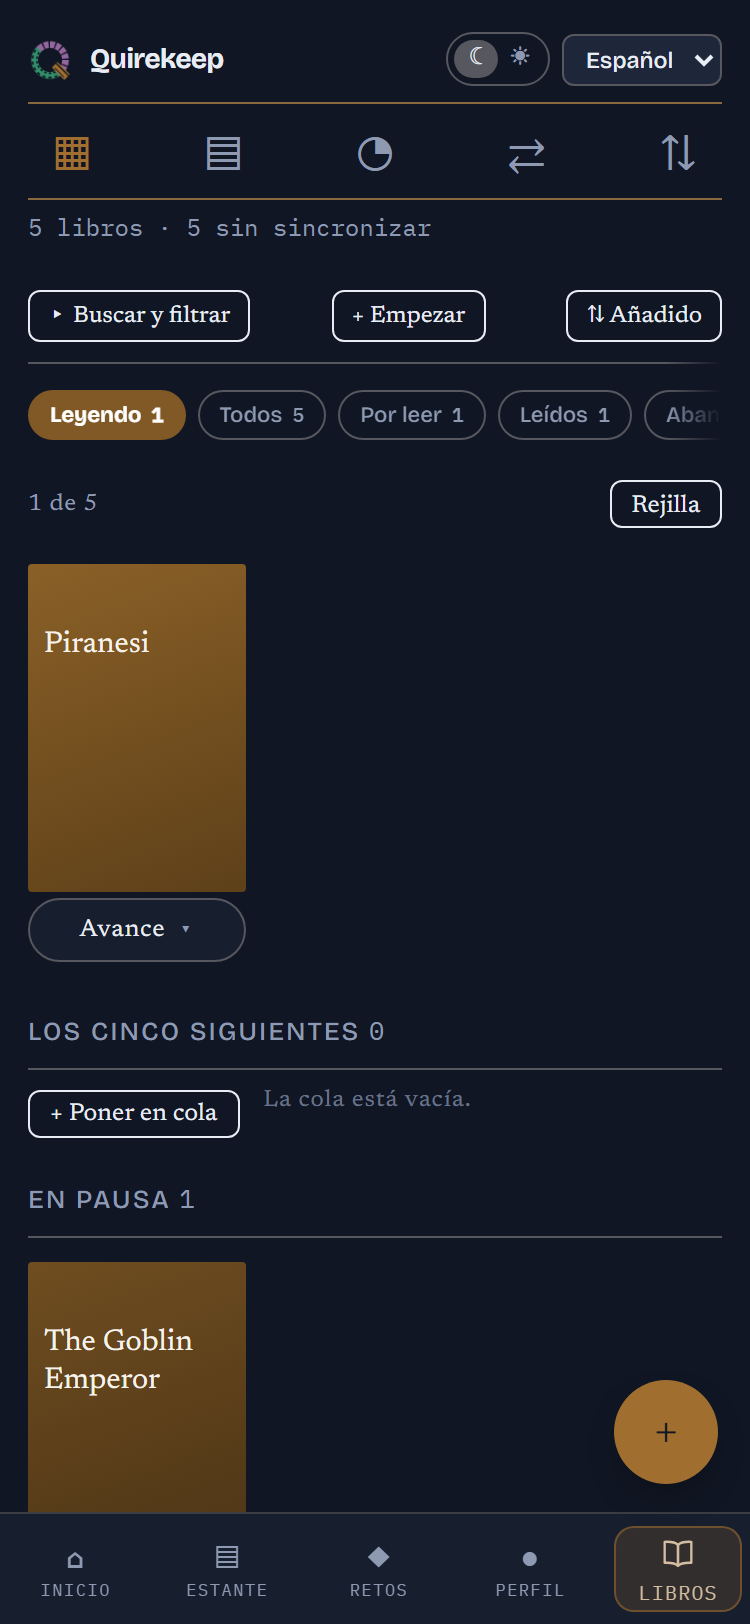
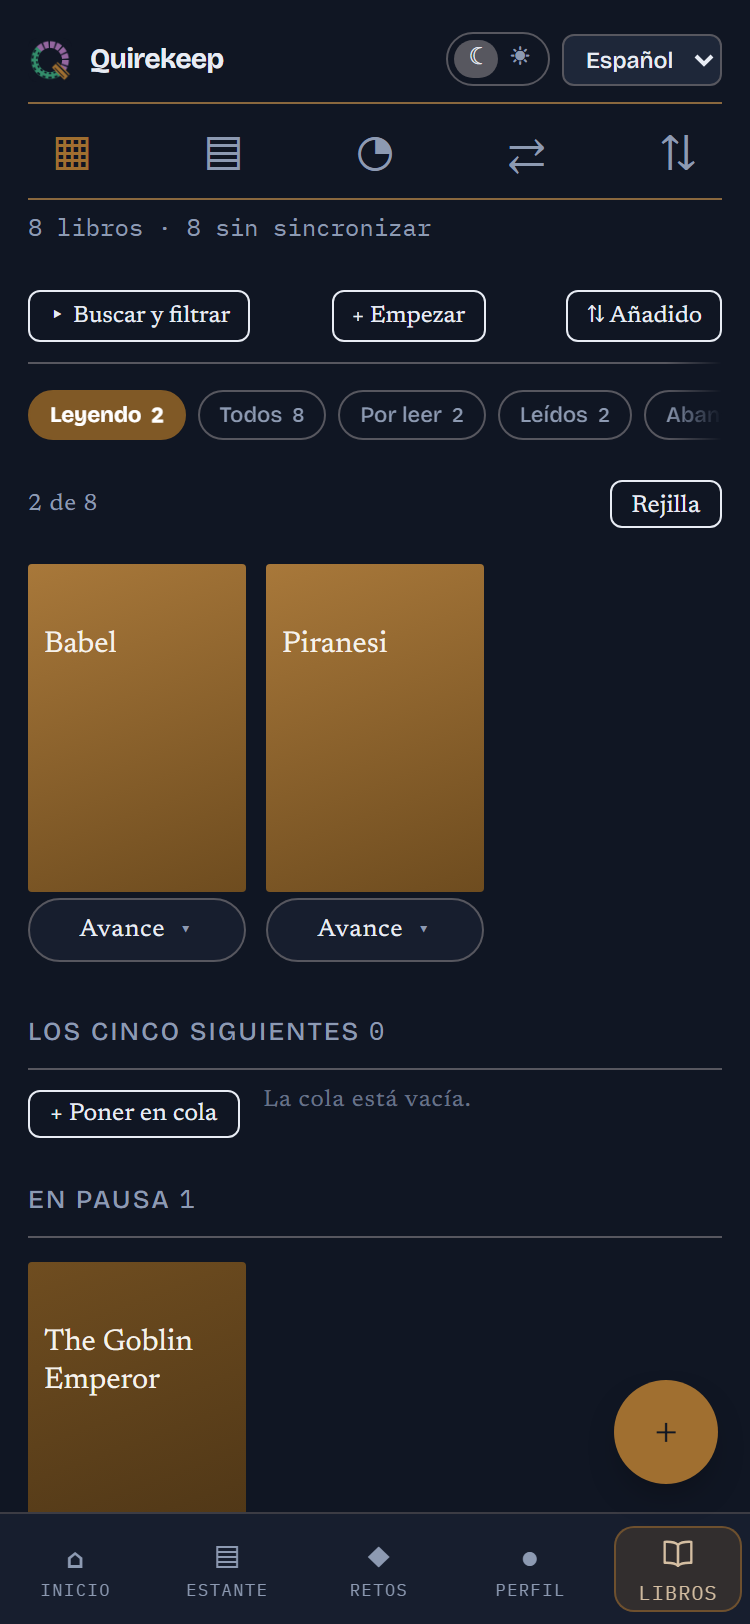
docs: richer demo library, and the Shelf and Challenges screens
- The demo library behind every screenshot now runs 8 titles per sector
  (24 total) across every status - reading, read, to-read, paused, dropped -
  instead of 5-7 mostly reading/read, so filters and stats have something
  real to show.
- Two screens the landing page never showed at all: Estante (the
  cross-sector in-progress/up-next/done view) and Retos (one running
  challenge with progress, one marked achieved by hand).
- The Videojuegos "six screens" slot switches from an empty Add form to the
  Library grid, since that's what actually benefits from the bigger,
  more varied dataset.

Changed region(s): [[0.0307, 0.3387, 0.644, 0.585]]

diff --git a/index.html b/index.html
@@ -427,6 +427,8 @@ h2{font-size:clamp(1.55rem,1.25rem + 1.35vw,2.2rem);max-width:26ch}
         <figure><img src="docs/assets/movil-inicio-dos-sectores-oscuro.png" alt="Inicio con solo dos sectores encendidos" loading="lazy"><figcaption data-en="Home, with only two sectors on">Inicio, con solo dos sectores encendidos</figcaption></figure>
         <figure><img src="docs/assets/movil-inicio-solo-videojuegos-oscuro.png" alt="Inicio con solo Videojuegos encendido, tema Digital" loading="lazy"><figcaption data-en="Home, with only Games on">Inicio, con solo Videojuegos encendido</figcaption></figure>
         <figure><img src="docs/assets/movil-inicio-solo-videojuegos-claro.png" alt="Inicio con solo Videojuegos encendido, tema Papel" loading="lazy"><figcaption data-en="The same, in Paper">Lo mismo, en Papel</figcaption></figure>
+        <figure><img src="docs/assets/movil-estante-libros-oscuro.png" alt="Estante: lo siguiente y lo terminado en cada sector" loading="lazy"><figcaption data-en="Shelf, across sectors">Estante, a través de sectores</figcaption></figure>
+        <figure><img src="docs/assets/movil-retos-oscuro.png" alt="Retos: uno en marcha, otro conseguido" loading="lazy"><figcaption data-en="Challenges">Retos</figcaption></figure>
       </div>
 
       <div class="wides">
@@ -458,7 +460,7 @@ h2{font-size:clamp(1.55rem,1.25rem + 1.35vw,2.2rem);max-width:26ch}
         <figure><img src="docs/assets/movil-estadisticas-cine-oscuro.png" alt="Estadísticas de Cine" loading="lazy"><figcaption data-en="Stats, Screen">Estadísticas, Cine</figcaption></figure>
         <figure><img src="docs/assets/movil-cola-sync-cine-claro.png" alt="La cola de sincronización de Cine, tema Papel" loading="lazy"><figcaption data-en="Sync queue, Screen">Cola de sincronización, Cine</figcaption></figure>
         <figure><img src="docs/assets/movil-importar-exportar-videojuegos-oscuro.png" alt="Importar y exportar en Videojuegos" loading="lazy"><figcaption data-en="Import and export, Games">Importar y exportar, Videojuegos</figcaption></figure>
-        <figure><img src="docs/assets/movil-anadir-videojuegos-claro.png" alt="El formulario de añadir un videojuego, tema Papel" loading="lazy"><figcaption data-en="Add, Games">Añadir, Videojuegos</figcaption></figure>
+        <figure><img src="docs/assets/movil-biblioteca-videojuegos-claro.png" alt="La biblioteca de Videojuegos, con títulos en todas las fases, tema Papel" loading="lazy"><figcaption data-en="Library, Games">Biblioteca, Videojuegos</figcaption></figure>
       </div>
 
       <h3 class="sub" data-en="The accounts you keep elsewhere stay there">Las cuentas que ya tienes siguen donde están</h3>
